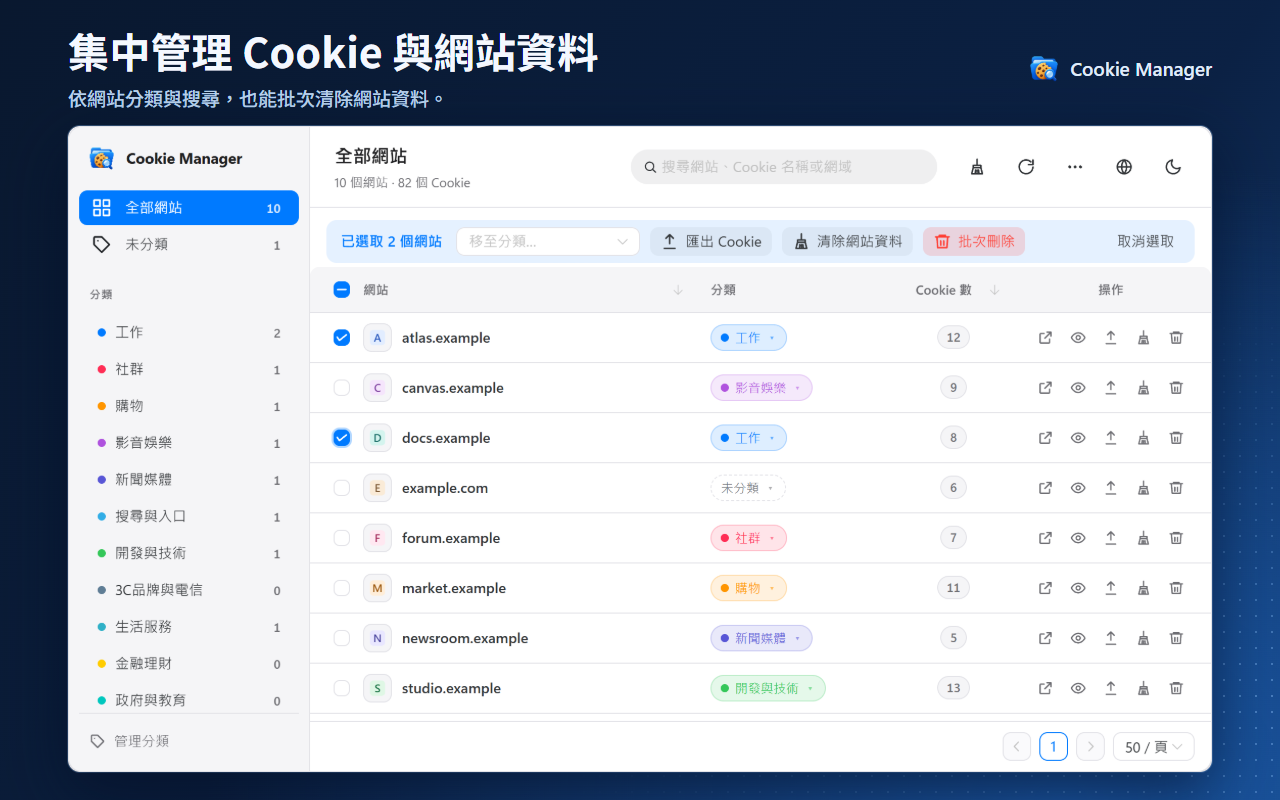
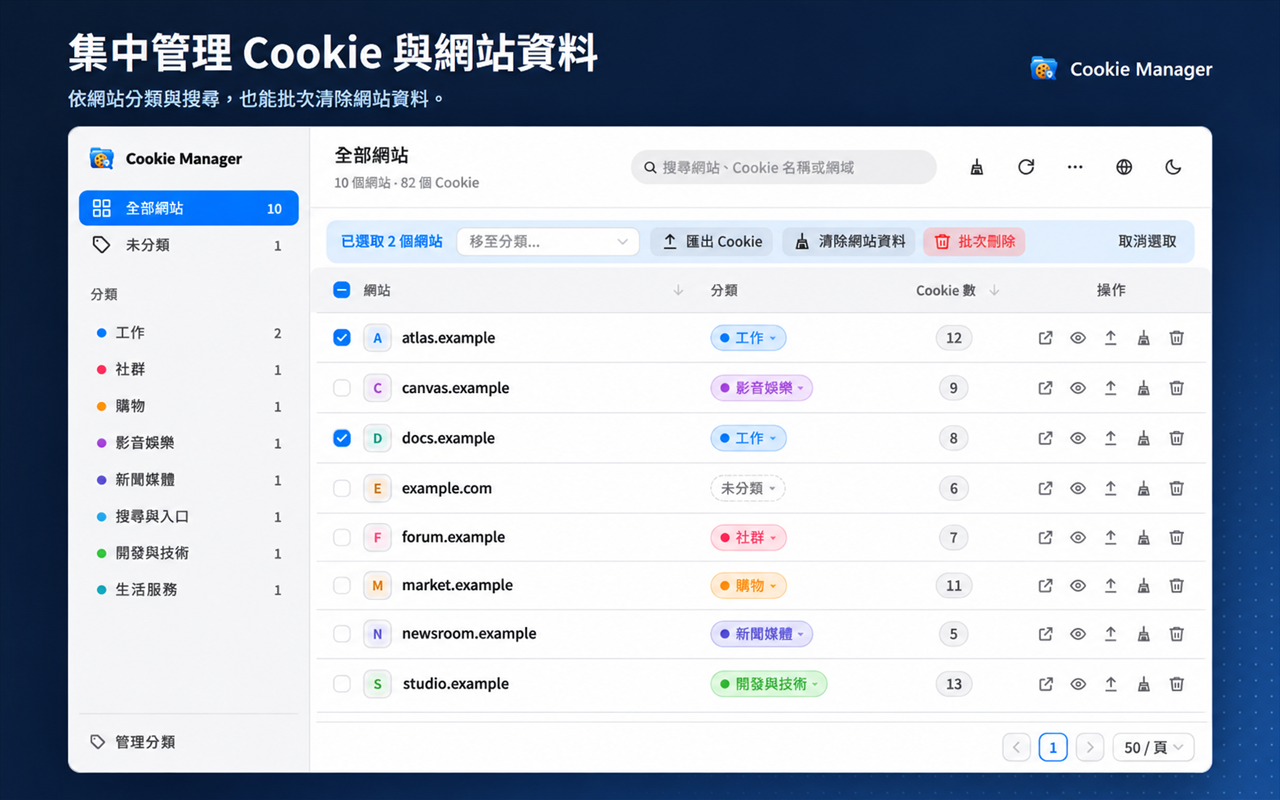
feat: 更新多語系展示截圖
Update localized demo screenshots for Traditional Chinese, English, and Japanese. Add language-aware website image switching and refresh Chrome Web Store assets.

diff --git a/index.html b/index.html
@@ -128,12 +128,12 @@
           <p class="lead" data-i18n="shots.lead">彩色分類、快速搜尋與批次操作，在同一個管理畫面完成。</p>
         </div>
         <figure class="dashboard-shot">
-          <a href="assets/screenshots/dashboard.png" target="_blank" rel="noopener"><img src="assets/screenshots/dashboard.png" width="1920" height="1230" alt="Cookie Manager 管理後台：網站清單與彩色分類，使用示範資料" loading="lazy" /></a>
+          <a href="assets/screenshots/dashboard.png" data-i18n-href="shots.dashboardSrc" target="_blank" rel="noopener"><img src="assets/screenshots/dashboard.png" data-i18n-src="shots.dashboardSrc" width="1280" height="800" alt="Cookie Manager 管理後台：網站清單與彩色分類，使用示範資料" loading="lazy" /></a>
           <figcaption data-i18n="shots.note">實際介面截圖 · 使用虛構示範資料</figcaption>
         </figure>
         <div class="visual-stories">
           <article class="visual-story">
-            <img src="assets/illustrations/organize.png" width="1536" height="1024" alt="藍色資料夾與餅乾，象徵依網站分類" loading="lazy" />
+            <img src="assets/screenshots/cookie-editor.png" data-i18n-src="shots.editorSrc" width="1280" height="800" alt="Cookie Manager Cookie 編輯與網站資料管理畫面，使用虛構示範資料" loading="lazy" />
             <div><h3 data-i18n="f1.t">依網站分類</h3><p data-i18n="f1.d">Cookie 會依主網站自動合併，再用自訂的彩色分類整理，例如工作、購物、社群。</p></div>
           </article>
           <article class="visual-story">
@@ -291,6 +291,8 @@ curl -H "Cookie: session_id=a1f9c2e7" \
     // 英文與日文翻譯；繁體中文直接取自頁面上的原文
     const I18N = {
       en: {
+        'shots.dashboardSrc': 'assets/screenshots/dashboard-en.png',
+        'shots.editorSrc': 'assets/screenshots/cookie-editor-en.png',
         'shots.note': 'Actual interface · Synthetic demo data',
         'shots.title': 'Every site, at a glance',
         'shots.lead': 'Color-coded categories, quick search, and batch actions in one dashboard.',
@@ -353,6 +355,8 @@ curl -H "Cookie: session_id=a1f9c2e7" \
         'install.s4': 'Click <strong>Load unpacked</strong> and select the extracted folder containing <code>manifest.json</code>.',
       },
       ja: {
+        'shots.dashboardSrc': 'assets/screenshots/dashboard-ja.png',
+        'shots.editorSrc': 'assets/screenshots/cookie-editor-ja.png',
         'shots.note': '実際の画面 · 架空のデモデータを使用',
         'shots.title': 'すべてのサイトを、ひと目で',
         'shots.lead': '色分けした分類、検索、一括操作をひとつの管理画面で。',

diff --git a/site/i18n.js b/site/i18n.js
@@ -16,6 +16,15 @@
     attrNodes.forEach((n) => {
       zh[n.dataset.i18nContent] = n.getAttribute('content')
     })
+    // 圖片等可隨語言切換的 src 屬性
+    const srcNodes = document.querySelectorAll('[data-i18n-src]')
+    srcNodes.forEach((n) => {
+      zh[n.dataset.i18nSrc] = n.getAttribute('src')
+    })
+    const hrefNodes = document.querySelectorAll('[data-i18n-href]')
+    hrefNodes.forEach((n) => {
+      zh[n.dataset.i18nHref] = n.getAttribute('href')
+    })
     const dicts = Object.assign({ 'zh-TW': zh }, translations)
     const select = document.getElementById('lang')
 
@@ -44,6 +53,14 @@
       attrNodes.forEach((n) => {
         const v = dict[n.dataset.i18nContent]
         if (v != null) n.setAttribute('content', v)
+      })
+      srcNodes.forEach((n) => {
+        const v = dict[n.dataset.i18nSrc]
+        if (v != null) n.setAttribute('src', v)
+      })
+      hrefNodes.forEach((n) => {
+        const v = dict[n.dataset.i18nHref]
+        if (v != null) n.setAttribute('href', v)
       })
       document.documentElement.lang = HTML_LANG[lang]
       if (select) select.value = lang

diff --git a/StoreAssets/README.md b/StoreAssets/README.md
@@ -1,16 +1,20 @@
 # Chrome Web Store 圖片資產
 
-此資料夾為繁體中文商店頁準備，圖片可直接上傳；尚未代為上傳。
+此資料夾提供繁體中文、英文與日文商店頁素材，圖片可直接上傳；尚未代為上傳。
 
 | 檔案 | 尺寸 | 上傳欄位 |
 | --- | --- | --- |
 | store-icon-128.png | 128×128 | 商店圖示 |
 | 01-dashboard-1280x800.png | 1280×800 | 在地化螢幕截圖，第 1 張 |
 | 02-cookie-editor-1280x800.png | 1280×800 | 在地化螢幕截圖，第 2 張 |
+| en/01-dashboard-1280x800.png | 1280×800 | 英文在地化螢幕截圖 |
+| en/02-cookie-editor-1280x800.png | 1280×800 | 英文 Cookie 編輯與網站資料螢幕截圖 |
+| ja/01-dashboard-1280x800.png | 1280×800 | 日文在地化螢幕截圖 |
+| ja/02-cookie-editor-1280x800.png | 1280×800 | 日文 Cookie 編輯與網站資料螢幕截圖 |
 | small-promo-440x280.png | 440×280 | 小型宣傳圖（選用） |
 | marquee-promo-1400x560.png | 1400×560 | 大型宣傳圖（選用） |
 
-展示圖以實際 Vue 介面截圖排版，Cookie、網站清單與網站圖示皆為示範資料；不包含個人瀏覽資料。宣傳圖沿用既有品牌圖示，採科技藍、餅乾金與簡潔排版。
+展示圖以實際 Vue 介面截圖排版，英文與日文版本透過 AI 產圖模組依原介面重製。Cookie、網站清單與網站圖示皆為虛構示範資料；不包含個人瀏覽資料。宣傳圖沿用既有品牌圖示，採科技藍、餅乾金與簡潔排版。
 
 已確認所有展示圖與宣傳圖為 8-bit RGB PNG，沒有 alpha 透明通道。商店圖示保留既有 PNG 透明背景。
 
